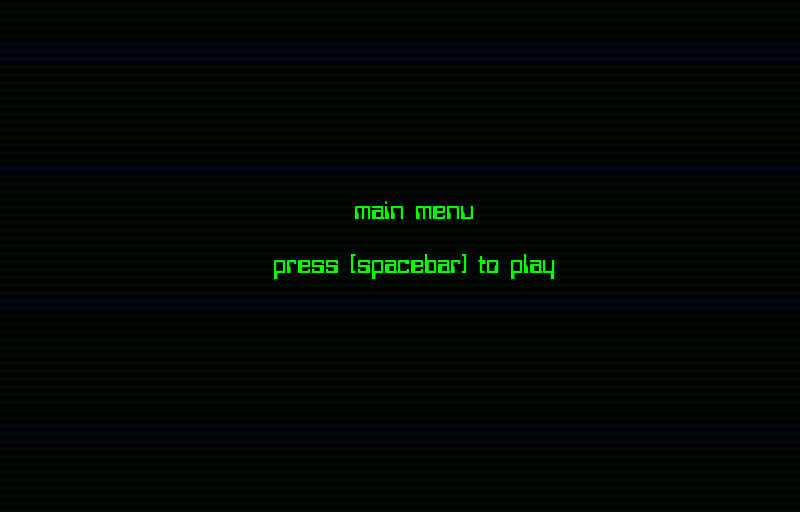
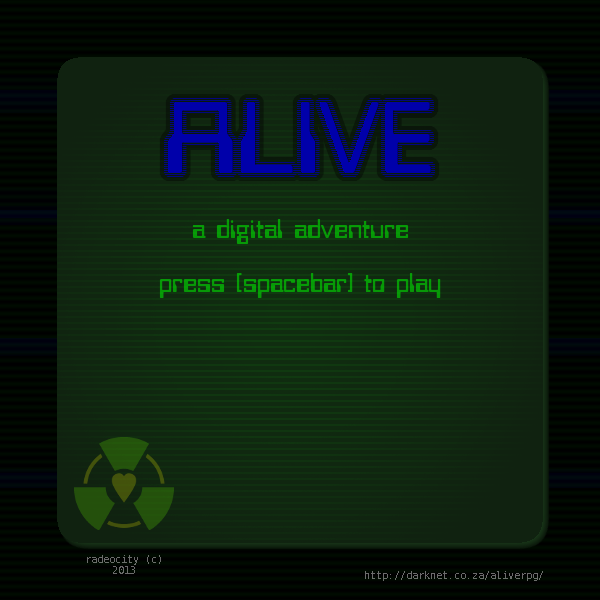
new main menu image

diff --git a/data/aliveView.py b/data/aliveView.py
@@ -142,7 +142,7 @@ class GraphicalView(object):
             sometext = 'Intro screen is now drawing. Space to skip.'
             
         elif state == aliveModel.STATE_MENU:
-            sometext = 'The game menu is now showing. Space to play, escape to quit.'
+            self.draw_menu()
             
         elif state == aliveModel.STATE_DIALOG:
             self.draw_borders()
@@ -172,7 +172,14 @@ class GraphicalView(object):
         somewords = self.largefont.render(sometext, True, color.green)
         self.screen.blit(somewords, (0, 0))
         pygame.display.flip()
-    
+
+    def draw_menu(self):
+        """
+        Draw the main menu.
+        """
+        
+        self.screen.blit(self.menubackground, (0, 0))
+
     def draw_sprites(self):
         """
         Draw the play area: level tiles and objects.
